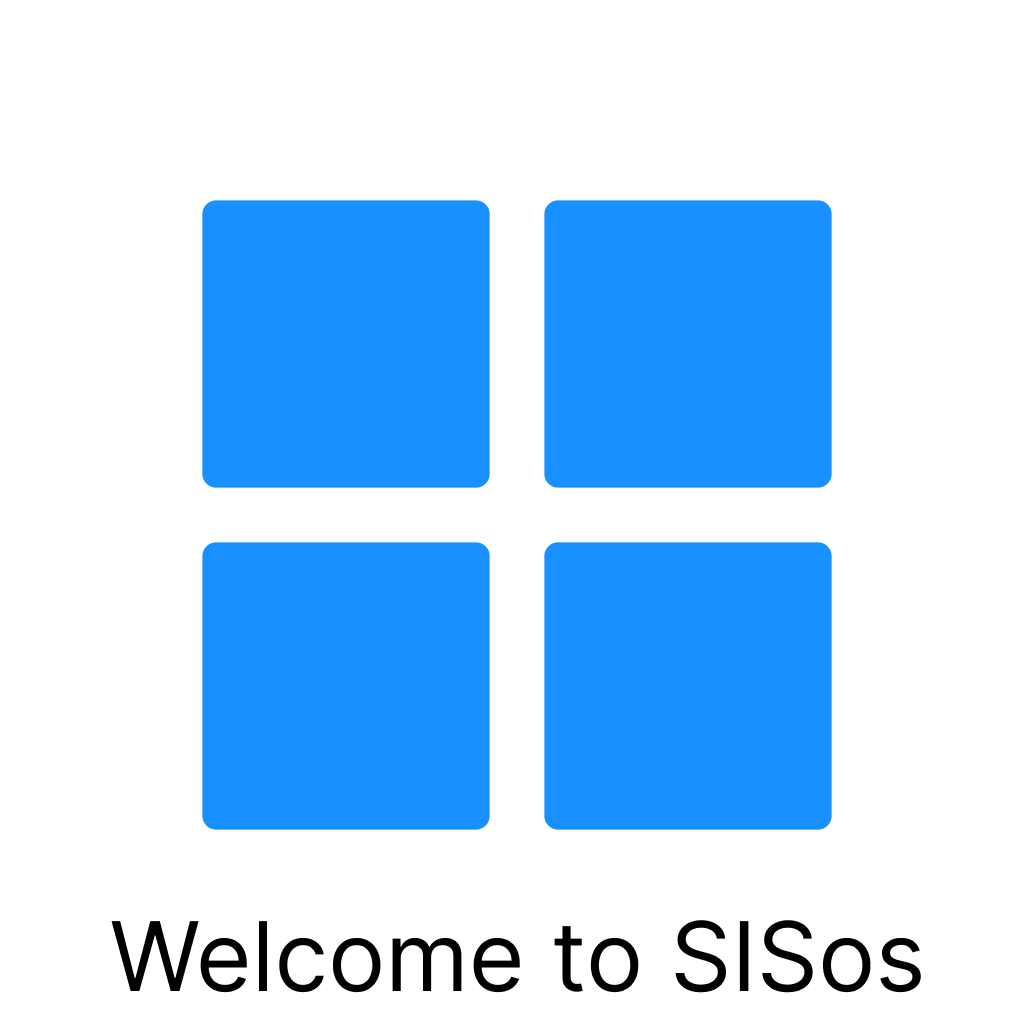
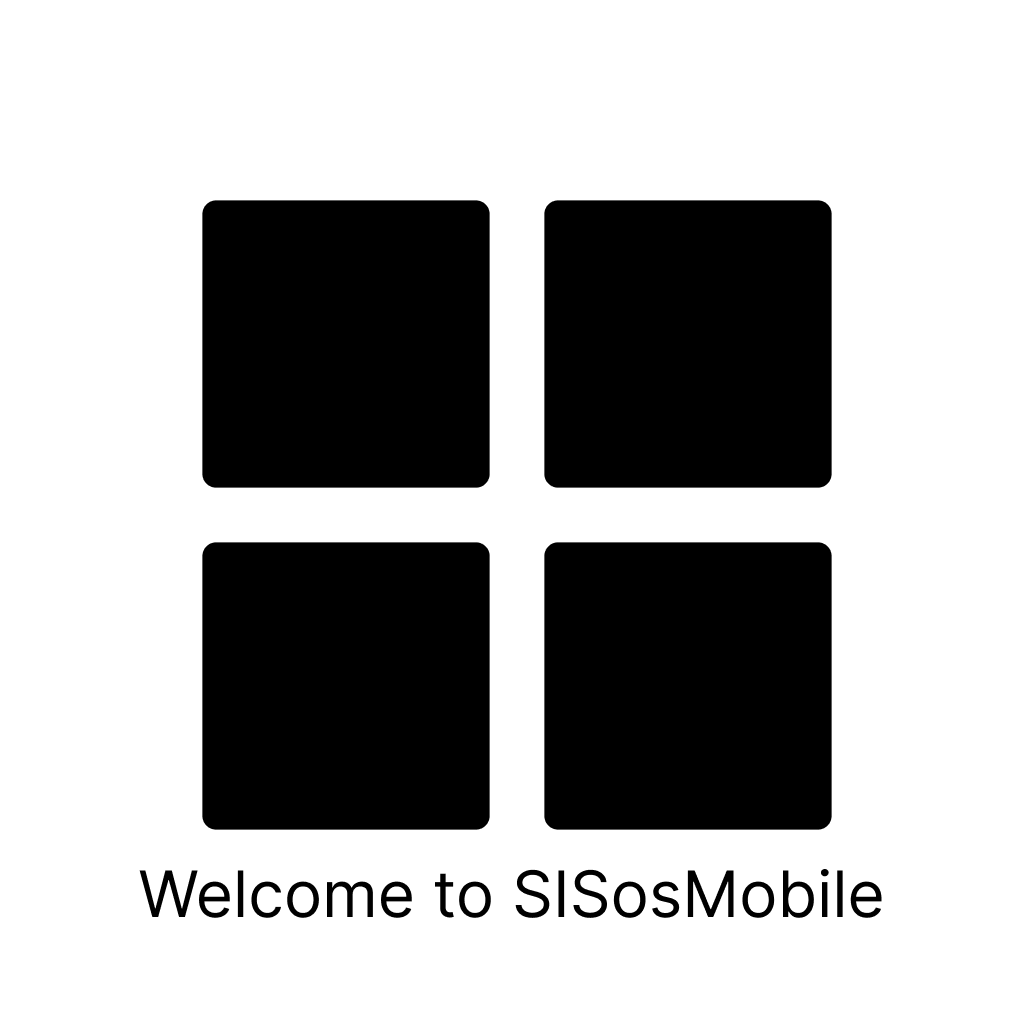
feat(11.0.20): release
- update on icons and images
- update save policy quotation
- fix on search claims, policies and premiums
- fix reload list items on save quote draft

diff --git a/Views/GetStarted.jsx b/Views/GetStarted.jsx
@@ -1,22 +1,15 @@
-import { View, Image, ImageBackground, Platform } from 'react-native';
+import { View, Image, Platform } from 'react-native';
 import { Button, Text, Icon, useTheme } from '@rneui/themed'
 import { createStackNavigator } from '@react-navigation/stack';
-import { PolicyCardList } from '../Components/Policy/PolicyCardList';
 import { useUserData } from '../Util/UserContext'
-import { DoCmd } from '../Api/doCmd';
-import { useState, useEffect } from 'react';
-import { ProductForm, ProductList, ProductOptList, ProductOptionView } from '../Components/Quote'
+import { ProductForm, ProductList, ProductOptList, ProductOptionView, QuoteCompleted } from '../Components/Quote'
 import { PolicyDetail } from '../Components/Policy';
 const Stack = createStackNavigator();
 
 export const GetStarted =({ navigation })=>{
     const { userData, setUserData } = useUserData();
     const { theme } = useTheme();
-    return <View style={{ flex: 1 }}>
-        <ImageBackground 
-            source={require('../assets/landing.png')} 
-            resizeMode='cover'
-            style={{ flex: 1 }} >
+    return <View style={{ flex: 1, paddingBottom: 10 }}>
             <View style={{ display: 'flex', flexDirection: 'row', padding: 10, justifyContent: 'space-between'  }}>
                 <Image
                     source={require('../assets/iconTransparent.png')} 
@@ -39,8 +32,7 @@ export const GetStarted =({ navigation })=>{
                     </Text>
                 </View>
                 <Button title='Get Started >' onPress={ ()=> navigation.navigate('newProduct')} />
-            </View>            
-        </ImageBackground>        
+            </View>
     </View>
 }
 export const GetStartedView =()=>{
@@ -94,7 +86,14 @@ export const GetStartedView =()=>{
                 options={{ 
                     headerTitle: Platform.OS == 'android' ? 'Product Options': '',
                     headerBackTitle: 'Product Options'
-                    }} />                
+                    }} />
+            <Stack.Screen 
+                 name='quoteCompleted'
+                 component={QuoteCompleted}
+                 options={{
+                    headerTitle: Platform.OS == 'android' ? 'Completed': '',
+                    headerBackTitle: 'Completed'
+                 }}/>              
         </Stack.Group>
         </Stack.Navigator>)
 }

diff --git a/Components/Quote/ProductOptionView.jsx b/Components/Quote/ProductOptionView.jsx
@@ -1,9 +1,30 @@
-import { ListItem, Text, useTheme } from '@rneui/themed';
-import { View } from 'react-native';
+import { Button, Icon, ListItem, Text, useTheme } from '@rneui/themed';
+import { useState } from 'react';
+import { Alert, View } from 'react-native';
+import { DoCmd } from '../../Api';
+import { useUserData } from '../../Util/UserContext';
 
-export const ProductOptionView =({ route })=>{
+export const ProductOptionView =({ route, navigation })=>{
     const { Option } = route.params;
     const { theme  } = useTheme();
+    const [ loading, setLoading ] = useState(false);
+    const { userData: { token }, setUserData } = useUserData();
+    const onSaveQuotePress = async ()=>{
+        try {
+            setLoading(true);
+            const QuotePortalProduct = await DoCmd({ cmd:'QuotePolicy', data:{ policy: { ...Option, id: 0 }, dbMode: false, save: true, action: 'QuotePortalProduct' }, token  });
+            if(!QuotePortalProduct.ok){
+               console.log(QuotePortalProduct.msg)
+               throw QuotePortalProduct.msg;
+            }
+            setUserData( currentData => ({...currentData, refreshId: new Date().getTime() }))
+            navigation.navigate('quoteCompleted', QuotePortalProduct.outData )
+        } catch (error) {
+            Alert.alert(JSON.stringify(error));
+        }finally{
+            setLoading(false)
+        }
+    }
     return (
         <View style={{ 
             display: 'flex', 
@@ -43,6 +64,16 @@ export const ProductOptionView =({ route })=>{
                 <ListItem.Content>
                     <Text style={{ color: theme.colors.greyOutline }}>Premium:</Text>
                     <Text h4>{ `${Number(Option.annualTotal || 0 ).toLocaleString() } ${Option.currency}`}</Text>
+                </ListItem.Content>
+            </ListItem>
+            <ListItem>
+                <ListItem.Content>
+                    <Button 
+                        title=' Save Quote' 
+                        icon={ <Icon name='folder-plus-outline' type='material-community' color={ theme.colors.primary } /> }
+                        type='clear'
+                        onPress={ onSaveQuotePress }
+                        loading={ loading }/>
                 </ListItem.Content>
             </ListItem>
         </View>)

diff --git a/Components/Quote/QuoteCompleted.jsx b/Components/Quote/QuoteCompleted.jsx
@@ -1,0 +1,44 @@
+import { Button, Icon, Text, useTheme } from '@rneui/themed'
+import { View, StyleSheet } from 'react-native';
+
+export const QuoteCompleted=({ route, navigation })=>{
+    const [newPolicy] = route.params;
+    const { theme } = useTheme();
+    return <View style={ style.container }>
+        <View style={ style.informationContainer }>
+            <Icon name='checkmark-circle' type='ionicon' size={ 70 } color={ theme.colors.success }/>
+            <Text h1>Successfully Saved</Text>
+            <Text h4>Quote number is { newPolicy.id }</Text>
+        </View>
+        <View style={ style.buttonContainer }>
+            <Button 
+                title={ 'Close' } 
+                containerStyle={{ flex: 1 }}
+                onPress={ ()=> navigation.popToTop() }/>
+        </View>
+    </View>
+}
+
+const style = StyleSheet.create({
+    container:{
+        display: 'flex',
+        flex: 1,
+        flexDirection: 'column',
+        paddingLeft: 20,
+        paddingRight: 20,
+        backgroundColor: 'white',
+        alignItems: 'center',
+        justifyContent: 'center',
+    },
+    informationContainer:{
+        flex: 2,
+        alignItems: 'center',
+        justifyContent: 'center',
+    },
+    buttonContainer:{
+        flex: 1,
+        flexDirection: 'row',
+        width: '100%',
+        justifyContent: 'center'
+    }
+})

diff --git a/Views/PolicyView.jsx b/Views/PolicyView.jsx
@@ -1,8 +1,8 @@
 
-import { useTheme, Text } from '@rneui/themed';
+import { useTheme } from '@rneui/themed';
 import { createStackNavigator } from '@react-navigation/stack';
 import { PolicyList, PolicyDetail } from '../Components/Policy';
-import { ProductForm, ProductList, ProductOptList, ProductOptionView } from '../Components/Quote'
+import { ProductForm, ProductList, ProductOptList, ProductOptionView, QuoteCompleted } from '../Components/Quote'
 import { Platform } from 'react-native';
 const Stack = createStackNavigator();
 
@@ -58,6 +58,13 @@ export const PolicyView =()=>{
                         headerTitle: Platform.OS == 'android' ? 'Product Options': '',
                         headerBackTitle: 'Product Options'
                         }} />                
+                <Stack.Screen 
+                 name='quoteCompleted'
+                 component={QuoteCompleted}
+                 options={{
+                    headerTitle: Platform.OS == 'android' ? 'Completed': '',
+                    headerBackTitle: 'Completed'
+                 }}/>
             </Stack.Group>
             
             

diff --git a/Components/Quote/index.jsx b/Components/Quote/index.jsx
@@ -2,4 +2,5 @@ import { ProductList } from './ProductList';
 import { ProductForm } from './ProductForm';
 import { ProductOptList } from './ProductOptList';
 import { ProductOptionView } from './ProductOptionView';
-export { ProductList, ProductForm, ProductOptList, ProductOptionView }
+import { QuoteCompleted } from './QuoteCompleted';
+export { ProductList, ProductForm, ProductOptList, ProductOptionView, QuoteCompleted }

diff --git a/Components/Premiums/PremiumList.jsx b/Components/Premiums/PremiumList.jsx
@@ -10,10 +10,6 @@ export const PremiumList =({ navigation })=>{
     const [ filter, setFilter ] = useState();
     const { theme } = useTheme();
     const searchBar = createRef();
-    // Set data
-    useEffect(()=>{
-        setPremiums(userData.Premiums);
-    },[userData.Premiums])
     // Filter Premiums.
     useEffect(()=>{
         if(!filter || filter == ''){

diff --git a/Components/Policy/PolicyList.jsx b/Components/Policy/PolicyList.jsx
@@ -10,10 +10,6 @@ export const PolicyList =({ navigation })=>{
     const [ filter, setFilter ] = useState();
     const { theme } = useTheme();
     const searchBar = createRef();
-    // Set data
-    useEffect(()=>{
-        setPolicies(userData.Policies);
-    },[userData.Policies])
     // Filter policies.
     useEffect(()=>{
         if(!filter || filter == ''){

diff --git a/Views/Home.jsx b/Views/Home.jsx
@@ -93,9 +93,7 @@ export const Home =()=>{
     }
     useEffect(()=>{
         fetchUserData();
-        setUserData({...userData, 
-        refreshBadges: fetchUserData })
-    },[userData.token])
+    },[userData.token, userData.refreshId])
     useEffect(() => {
         registerForPushNotificationsAsync().then(token => setExpoPushToken(token));
     }, []);

diff --git a/Components/Claims/ClaimList.jsx b/Components/Claims/ClaimList.jsx
@@ -10,10 +10,6 @@ export const ClaimList =({ navigation }) =>{
     const [ filter, setFilter ] = useState();
     const { theme } = useTheme()
     const searchBar = createRef();
-    // Set data
-    useEffect(()=>{
-        setClaims(userData.Claims);
-    },[userData.Claims])
     // Filter claims.
     useEffect(()=>{
         if(!filter || filter == ''){

diff --git a/Views/Login.jsx b/Views/Login.jsx
@@ -40,7 +40,7 @@ export const Login =()=>{
 
     return <View style={{ flex: 1, width: screenWidth, justifyContent: 'center' }}>
         <ImageBackground 
-            source={require('../assets/landing.png')} 
+            // source={require('../assets/landing.png')} 
             resizeMode='cover' 
             style={{ 
                 flex: 1, 
